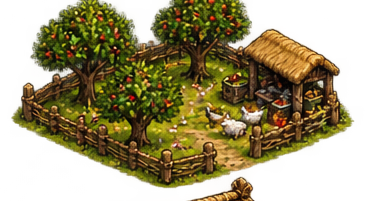
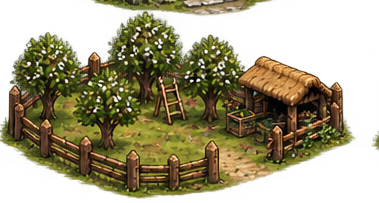
Culture venues + perspective-correct render scale for full-plot art
Decouple render size from footprint so perspective holds across the new
full-scene building art: makeBuildingChip takes an optional drawW (one
shared world width per art generation), so a person reads the same size
next to every building whatever tile footprint its plot occupies.

Integrate the culture set from the flat 2:1 sheet (sheetredod), sliced
into four prosperity states each, with generous footprints matched to
the art:
- Hurling Field  [4x4] drawW 4.0
- Feast Hall     [4x4] drawW 4.0
- Stone Circle   [3x3] drawW 3.5   (nemeton)
- Gallán         [3x3] drawW 3.3   (its art finally lands, completing the warden vigil)
- Orchard        refreshed art, drawW 3.2

New 'culture' role: a venue on the roads sends folk out (players,
revellers, druids) who lift the culture of the dwellings they pass,
reusing the shrine's walker path; its fourth state lights once connected.
Added under a new Culture build-menu tab.

Claude-Session: https://claude.ai/code/session_01WKhRt8ZZmze2AhDKaekxbQ

diff --git a/src/data/buildings.js b/src/data/buildings.js
@@ -5,7 +5,7 @@ export const BUILDINGS = {
     desc: 'A ráth — a round wattle-and-daub home. Draws folk when fed and watered.' },
   field: { label: 'Field', sprite: 'fields', art: 'field', states: 4, icon: '🌾', footprint: [2, 2], cost: 15, role: 'farm', produce: 'barley', rate: 5, load: 4,
     desc: 'Barley for bread and ale. Sends a grain-carrier to a nearby store.' },
-  orchard: { label: 'Orchard', sprite: 'fields', art: 'orchard', states: 4, icon: '🍎', footprint: [2, 2], cost: 18, role: 'farm', produce: 'apples', rate: 5, load: 4, unlockLevel: 4,
+  orchard: { label: 'Orchard', sprite: 'fields', art: 'orchard', states: 4, drawW: 3.2, icon: '🍎', footprint: [2, 2], cost: 18, role: 'farm', produce: 'apples', rate: 5, load: 4, unlockLevel: 4,
     desc: 'An úllghort of apple-trees, grown from grafting-shoots won on your raids. A second harvest — its pickers run the fruit to a nearby store, like a field.' },
   granary: { label: 'Grain Store', sprite: 'grain_store', scale: 0.6, icon: '🏚', footprint: [2, 2], cost: 18, role: 'granary',
     desc: 'Holds the harvest. Markets draw grain from here along the roads.' },
@@ -19,8 +19,14 @@ export const BUILDINGS = {
     desc: 'Clean water for the settlement. Its water-carrier is paid from your treasury.' },
   altar: { label: 'Shrine', sprite: 'altar', scale: 0.78, icon: '🗿', footprint: [1, 1], cost: 12, role: 'altar', upkeep: 3,
     desc: 'A standing-stone shrine to the old powers. Its druid is kept by your treasury, and a hero is far likelier to answer a túath that keeps one.' },
-  gallan: { label: 'Gallán', sprite: 'altar', art: 'gallan', states: 4, icon: '🪨', footprint: [2, 2], cost: 16, role: 'gallan', unlockLevel: 3,
+  gallan: { label: 'Gallán', sprite: 'altar', art: 'gallan', states: 4, drawW: 3.3, icon: '🪨', footprint: [3, 3], cost: 16, role: 'gallan', unlockLevel: 3,
     desc: 'A gallán — a great carved standing-stone. Dedicate one of your warriors to keep vigil at it: while they stand watch they cannot take the field, but the old powers look far kinder on your muster, and a hosted hero or god is likelier to answer the horn.' },
+  hurling_field: { label: 'Hurling Field', sprite: 'market', art: 'hurling_field', states: 4, drawW: 4.0, icon: '🏑', footprint: [4, 4], cost: 24, role: 'culture', unlockLevel: 3,
+    desc: 'A faiche iomána — the hurling green. Young folk match camán and sliotar here, and the whole túath turns out to roar them on. Sends players onto the roads to lift the spirits of the streets they pass.' },
+  feast_hall: { label: 'Feast Hall', sprite: 'longhouse', art: 'feast_hall', states: 4, drawW: 4.0, icon: '🍺', footprint: [4, 4], cost: 30, role: 'culture', unlockLevel: 3,
+    desc: 'A bruíon — the great feasting-hall, hung with banners and loud with ale and story. Its poets and revellers walk the roads and lift the culture of every home they pass.' },
+  nemeton: { label: 'Stone Circle', sprite: 'altar', art: 'nemeton', states: 4, drawW: 3.5, icon: '🌀', footprint: [3, 3], cost: 22, role: 'culture', unlockLevel: 3,
+    desc: 'A neimheadh — a ring of carved stones, sacred ground where the túath gathers for the great feasts of the year. Its druids walk the roads and raise the culture of the streets around it.' },
   homestead: { label: 'Leader’s Homestead', sprite: 'roundhouse', art: 'longhouse', states: 4, icon: '🐄', footprint: [3, 3], cost: 30, role: 'homestead', unique: true, folk: 2, unlockLevel: 2,
     desc: 'Your own ráth and the seat of your rule. Cattle — the true measure of a king — graze the open pasture around it and multiply. Wealth to send in tribute or trade for what Ériu cannot make, and the prize a raider drives off.' },
 };
@@ -31,6 +37,7 @@ export const CATEGORIES = [
   { id: 'homes', icon: '🏠', label: 'Homes', items: ['homestead', 'roundhouse'] },
   { id: 'farming', icon: '🌾', label: 'Farming', items: ['field', 'orchard', 'granary', 'sciobolmor'] },
   { id: 'services', icon: '🏛', label: 'Services', items: ['market', 'aonach', 'well', 'altar'] },
+  { id: 'culture', icon: '🎶', label: 'Culture', items: ['feast_hall', 'hurling_field', 'nemeton', 'gallan'] },
 ];
 
 export const ROAD_ITEM = { key: 'road', label: 'Road', icon: '🛣', cost: 0,

diff --git a/src/sim/game.js b/src/sim/game.js
@@ -225,7 +225,7 @@ export class Game {
       growMax: FARM_GROW, harvests: FARM_HARVESTS, yieldTotal: (def.load || 0) * FARM_HARVESTS }; // for the field inspect readout
     this.map.place(f.x, f.z, f.w, f.h, inst);
 
-    const chip = makeBuildingChip(def.role, f.w, f.h, this.map.tile, { art: def.art, states: def.states, scale: def.scale });
+    const chip = makeBuildingChip(def.role, f.w, f.h, this.map.tile, { art: def.art, states: def.states, scale: def.scale, drawW: def.drawW });
     const c = this._center(f);
     chip.position.set(c.x, 0, c.z);
     if (def.role === 'homestead') {
@@ -373,6 +373,8 @@ export class Game {
         return b.connected ? Math.min(1, 0.34 + (b.stock / MARKET_CAP) * 0.66) : 0;
       case 'gallan': // a bare stone → tended ground → a warden keeps vigil and the stone is lit
         return b.warden ? 1 : 0.3;
+      case 'culture': // a venue comes alive once it is on the roads and folk can reach it
+        return b.connected ? 1 : 0.3;
       default:
         return b.active ? 1 : 0;
     }
@@ -412,6 +414,15 @@ export class Game {
         // A shrine keeps druids on the roads (paid from the treasury, like a well),
         // and every dwelling they pass gains culture. Two druids at a time.
         if (!this.broke && this.folk > 0 && this._walkersFrom(b) < MAX_PER_BLD && ++b.timer >= 3) {
+          b.timer = 0; this._sendDruid(b);
+        }
+        break;
+      }
+      case 'culture': {
+        // A culture venue — feast hall, hurling field, stone-circle — sends folk out
+        // along the roads (storytellers, revellers, players) who lift the culture of
+        // every dwelling they pass, just as a shrine's druid does.
+        if (this.folk > 0 && this._walkersFrom(b) < MAX_PER_BLD && ++b.timer >= 3) {
           b.timer = 0; this._sendDruid(b);
         }
         break;

diff --git a/src/render/chips.js b/src/render/chips.js
@@ -55,7 +55,7 @@ export function makeCowToken() {
 // two (empty/full); those with `states: 4` in their def swap between four
 // prosperity frames (_s1.._s4) as they thrive. opts: { art, states }.
 export function makeBuildingChip(role, w, h, ts, opts = {}) {
-  const { art, states = 2, scale = 1 } = opts;
+  const { art, states = 2, scale = 1, drawW } = opts;
   const g = new THREE.Group();
   const frames = [];
   if (art && states >= 3) {
@@ -65,7 +65,11 @@ export function makeBuildingChip(role, w, h, ts, opts = {}) {
     if (base) frames.push(tex(`assets/buildings/${base}_empty.png`), tex(`assets/buildings/${base}_full.png`));
   }
   if (frames.length) {
-    const worldW = (w + h) * ts * DIAG_FILL * scale; // size to the iso footprint's diagonal span, with a per-building nudge
+    // Render size normally follows the footprint's diagonal span. Full-scene art
+    // (a building drawn on its whole plot) instead sets `drawW` — one shared world
+    // width per art generation — so a person reads the same size next to every
+    // building and perspective holds, whatever tile footprint the plot occupies.
+    const worldW = drawW != null ? drawW * ts : (w + h) * ts * DIAG_FILL * scale;
     const spr = new THREE.Sprite(new THREE.SpriteMaterial({ map: frames[0], transparent: true, alphaTest: 0.12 }));
     spr.center.set(0.5, 0);
     fitWidth(spr, frames[0], worldW);

diff --git a/src/main.js b/src/main.js
@@ -946,6 +946,7 @@ function pipelineNote(inst) {
     return flow('Sends a water-carrier to the dwellings along the roads.');
   }
   if (d.role === 'altar') return road ? '' : warn('No road — the druid cannot walk to the dwellings to raise culture.');
+  if (d.role === 'culture') return road ? flow('Sends folk along the roads to lift the culture of the dwellings they pass.') : warn('No road — its folk cannot reach the dwellings to raise culture.');
   if (d.role === 'dwelling') {
     const miss = [];
     if (inst.food <= 0) miss.push('food (a market-trader must reach it)');
